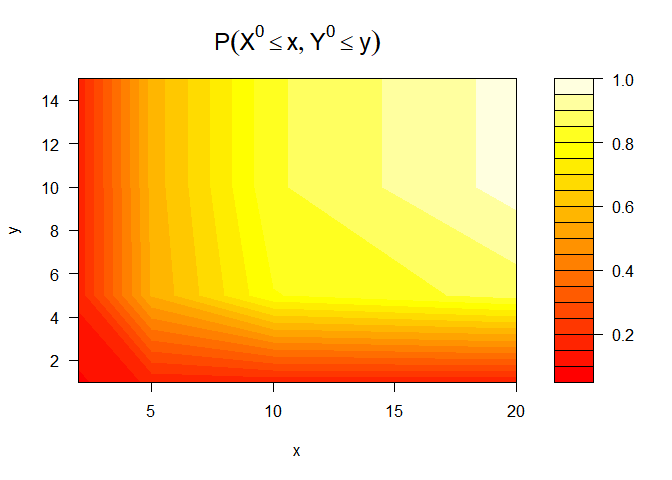
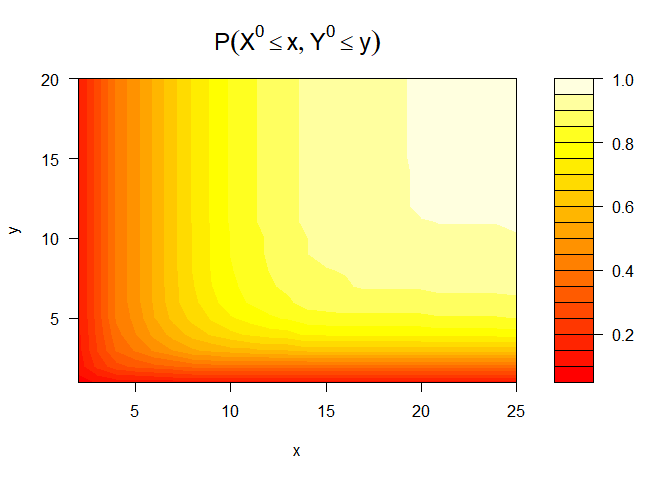
readme and examples update

diff --git a/README.md b/README.md
@@ -46,16 +46,16 @@ This is an example using a simulated data set.
 # Simulate bivariate alternating recurrent event data
 library(BivRec)
 #> Loading required package: survival
-set.seed(8822)
+set.seed(1234)
 biv.rec.data <- biv.rec.sim(nsize=150, beta1=c(0.5,0.5), beta2=c(0,-0.5), tau_c=63, set=1.1)
 head(biv.rec.data)
 #>   id epi      xij      yij       ci d1 d2 a1        a2
-#> 1  1   1 9.679047 2.282131 13.29129  1  1  1 0.4177872
-#> 2  1   2 1.330113 0.000000 13.29129  0  0  1 0.4177872
-#> 3  2   1 4.374004 2.684083 44.30019  1  1  0 0.2733379
-#> 4  2   2 3.773545 2.299688 44.30019  1  1  0 0.2733379
-#> 5  2   3 2.426768 2.552366 44.30019  1  1  0 0.2733379
-#> 6  2   4 3.314417 1.491540 44.30019  1  1  0 0.2733379
+#> 1  1   1 2.411938 1.608223 40.41911  1  1  0 0.4390421
+#> 2  1   2 1.405158 1.358592 40.41911  1  1  0 0.4390421
+#> 3  1   3 2.188781 1.633935 40.41911  1  1  0 0.4390421
+#> 4  1   4 2.045351 1.071826 40.41911  1  1  0 0.4390421
+#> 5  1   5 5.047795 2.175306 40.41911  1  1  0 0.4390421
+#> 6  1   6 2.503392 1.324126 40.41911  1  1  0 0.4390421
 
 # Plot gap times
 biv.rec.plot(formula = id + epi ~ xij + yij, data = biv.rec.data)
@@ -71,11 +71,11 @@ biv.rec.plot(formula = id + epi ~ xij + yij, data = biv.rec.data)
 # pdf("nonparamplots.pdf")
 
 nonpar.result <- biv.rec.np(formula = id + epi + xij + yij + d1 + d2 ~ 1,
-           data=biv.rec.data, ai=1, u1 = c(2, 5, 10, 20), u2 = c(1, 5, 10, 15),
+           data=biv.rec.data, ai=1, u1 = seq(2, 25, 1), u2 = seq(1, 20, 1),
            conditional = TRUE, given.interval=c(0, 10), jointplot=TRUE,
            marginalplot = TRUE, condiplot = TRUE)
-#> [1] "Original number of observations: 866 for 150 individuals"
-#> [1] "Observations to be used in analysis: 866 for 150 individuals"
+#> [1] "Original number of observations: 856 for 150 individuals"
+#> [1] "Observations to be used in analysis: 856 for 150 individuals"
 #> [1] "Estimating joint cdf and marginal survival"
 ```
 
@@ -91,50 +91,50 @@ nonpar.result <- biv.rec.np(formula = id + epi + xij + yij + d1 + d2 ~ 1,
 # dev.off()
 
 head(nonpar.result$joint.cdf)
-#>   x  y Joint.Probability         SE     0.025%    0.975%
-#> 1 2  1        0.08928573 0.01892769 0.05218813 0.1263833
-#> 2 2  5        0.16417087 0.02547234 0.11424599 0.2140957
-#> 3 2 10        0.16417087 0.02547234 0.11424599 0.2140957
-#> 4 2 15        0.16417087 0.02547234 0.11424599 0.2140957
-#> 5 5  1        0.16154877 0.02594191 0.11070356 0.2123940
-#> 6 5  5        0.55426760 0.03836429 0.47907497 0.6294602
+#>   x y Joint.Probability         SE     0.025%    0.975%
+#> 1 2 1        0.07765854 0.01916368 0.04009842 0.1152187
+#> 2 2 2        0.12390735 0.02288661 0.07905041 0.1687643
+#> 3 2 3        0.13381917 0.02345172 0.08785464 0.1797837
+#> 4 2 4        0.13694252 0.02348318 0.09091634 0.1829687
+#> 5 2 5        0.13928503 0.02373745 0.09276048 0.1858096
+#> 6 2 6        0.13928503 0.02373745 0.09276048 0.1858096
 head(nonpar.result$marginal.survival)
 #>        Time Marginal.Survival           SE    0.025%    0.975%
-#> 1 0.5165504         0.9998352 1.354416e-05 0.9998087 0.9998617
-#> 2 0.5895802         0.9996693 1.647758e-04 0.9993463 0.9999922
-#> 3 0.5940876         0.9989134 3.353599e-04 0.9982561 0.9995707
-#> 4 0.6090161         0.9987475 8.197330e-04 0.9971409 1.0000000
-#> 5 0.6496297         0.9985816 8.980838e-04 0.9968214 1.0000000
-#> 6 0.6529765         0.9982858 9.981078e-04 0.9963296 1.0000000
+#> 1 0.2697386         0.9998851 9.383939e-06 0.9998667 0.9999034
+#> 2 0.2759313         0.9997701 1.149293e-04 0.9995449 0.9999954
+#> 3 0.2912704         0.9996552 2.292833e-04 0.9992058 1.0000000
+#> 4 0.3055601         0.9995402 3.437648e-04 0.9988665 1.0000000
+#> 5 0.3203637         0.9994253 4.582784e-04 0.9985271 1.0000000
+#> 6 0.3229318         0.9993103 5.728047e-04 0.9981877 1.0000000
 head(nonpar.result$conditional.cdf)
 #>     Time Conditional.Probability  Bootstrap SE Bootstrap 0.025%
-#> 1 0.0043                  0.0000        0.0000             0.00
-#> 2 0.1493                  0.0007        0.0007             0.00
-#> 3 0.2943                  0.0066        0.0060             0.00
-#> 4 0.4393                  0.0216        0.0106             0.01
-#> 5 0.5843                  0.0601        0.0172             0.03
-#> 6 0.7293                  0.1011        0.0209             0.06
+#> 1 0.0112                  0.0000        0.0000             0.00
+#> 2 0.1358                  0.0060        0.0040             0.00
+#> 3 0.2604                  0.0197        0.0112             0.00
+#> 4 0.3850                  0.0267        0.0133             0.00
+#> 5 0.5095                  0.0401        0.0160             0.01
+#> 6 0.6341                  0.0660        0.0201             0.02
 #>   Bootstrap 0.975%
 #> 1             0.00
-#> 2             0.00
-#> 3             0.02
-#> 4             0.04
-#> 5             0.09
-#> 6             0.14
+#> 2             0.01
+#> 3             0.04
+#> 4             0.05
+#> 5             0.07
+#> 6             0.10
 
 # Apply Lee C, Huang CY, Xu G, Luo X (2017) method using multiple covariates
 fit.lee <- biv.rec.fit(formula = id + epi + xij + yij + d1 + d2 ~ a1 + a2,
-                data=biv.rec.data, method="Lee.et.al", CI=0.95)
-#> [1] "Original number of observations: 866 for 150 individuals"
-#> [1] "Observations to be used in analysis: 866 for 150 individuals"
+                data=biv.rec.data, method="Lee.et.al", CI=0.99)
+#> [1] "Original number of observations: 856 for 150 individuals"
+#> [1] "Observations to be used in analysis: 856 for 150 individuals"
 #> [1] "Fitting model with covariates: a1,a2"
 #> [1] "Estimating standard errors/confidence intervals"
 fit.lee$covariate.effects
-#>          Estimate        SE      0.025%    0.975%
-#> xij a1  0.5389506 0.1333088  0.27767013 0.8002310
-#> xij a2  0.4156700 0.2292714 -0.03369374 0.8650337
-#> yij a1  0.1824334 0.1796552 -0.16968429 0.5345511
-#> yij a2 -0.4560038 0.3181004 -1.07946913 0.1674615
+#>          Estimate        SE     0.005%    0.995%
+#> xij a1  0.5744414 0.1306845  0.2378204 0.9110623
+#> xij a2  0.5128054 0.2707497 -0.1845995 1.2102103
+#> yij a1  0.2888306 0.1985364 -0.2225653 0.8002266
+#> yij a2 -0.6207422 0.3842713 -1.6105596 0.3690751
 
 # To apply Chang (2004) method use method="Chang".
 # biv.rec.chang<- biv.rec.fit(formula = id + epi + xij + yij + d1 + d2 ~ a1 + a2, 
